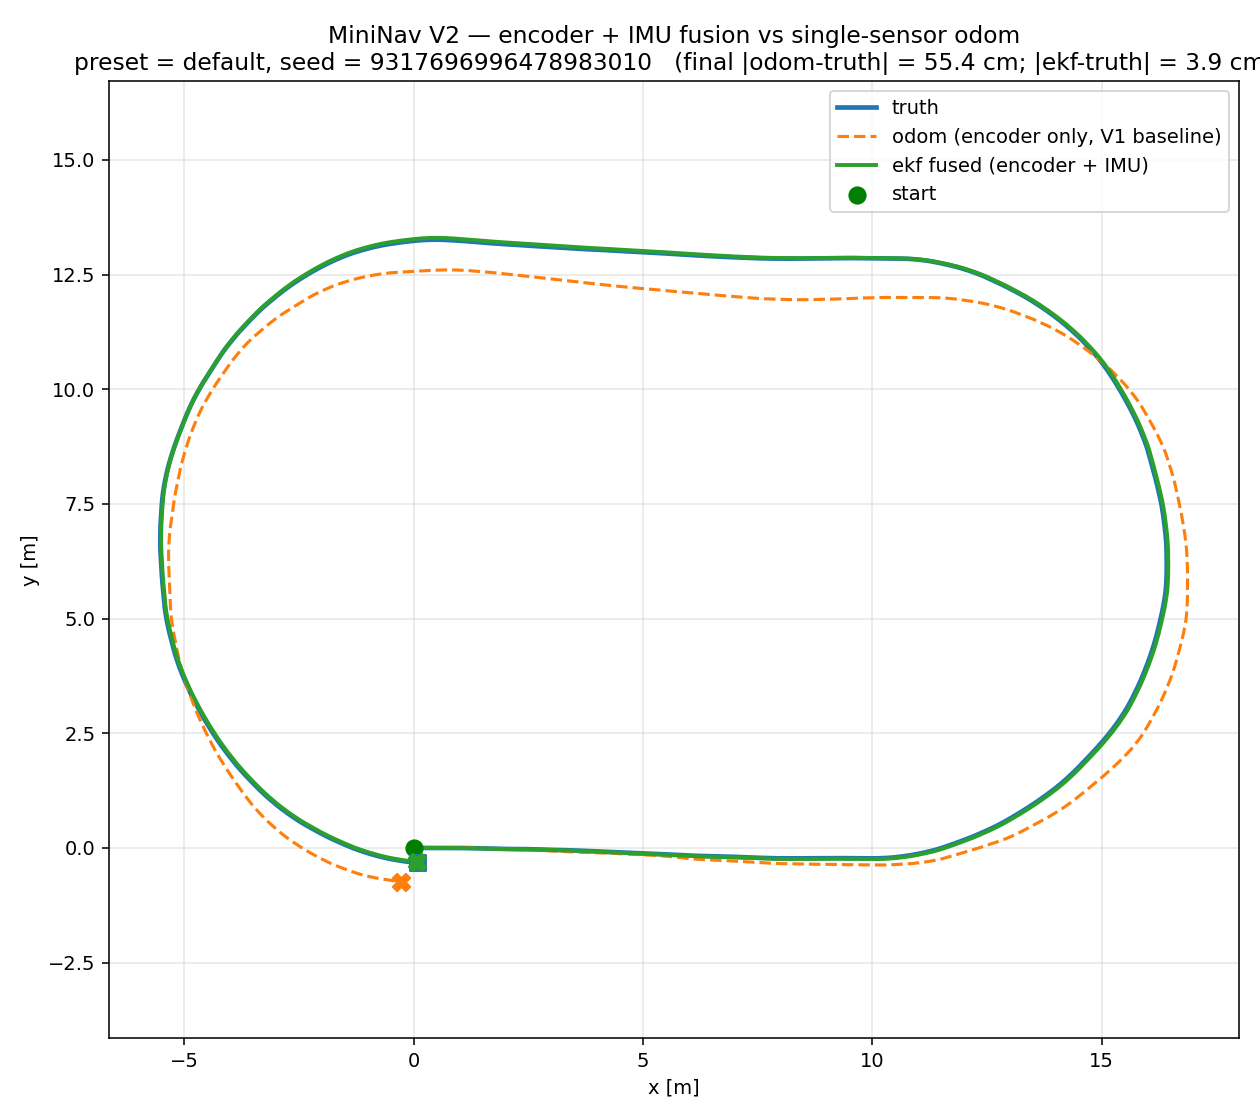
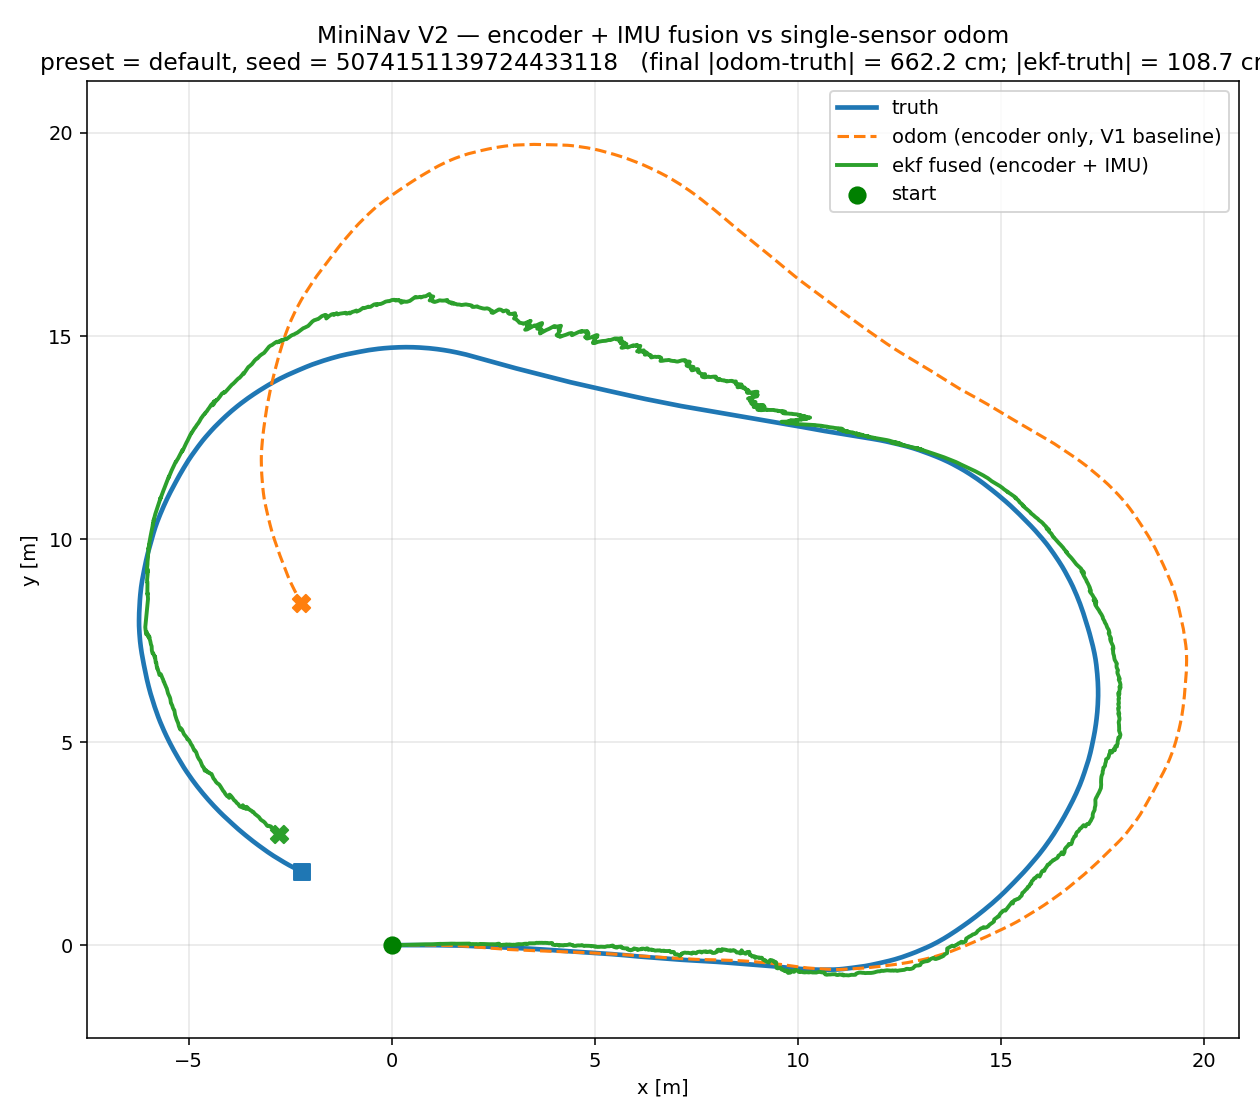
feat: add bias learning plot for online gyro bias estimation and covariance collapse

diff --git a/scripts/analyze_v2_ekf.py b/scripts/analyze_v2_ekf.py
@@ -22,6 +22,10 @@ mode = encoder+imu:
       fused 与 odom 的差距就是 IMU 的贡献。
   - results/v2_fusion_rmse_over_time.png  RMSE(truth, odom) 与 RMSE(truth, ekf)
       时间序列, 直观展示 fused 在转弯段开始后误差不再发散。
+  - results/v2_bias_learning.png:
+      上图 b_ω 估计 + ±2σ 带 + 真值参考线(由 preset 恢复), 几秒内收敛到真值;
+      下图 Σ_bb 从无信息先验(1e-2)对数坐标下塌缩 —— encoder+IMU 让 bias 可观测
+      的最直观证据(state augmentation 的"招牌图")。
 
 无论哪种模式都打印 stdout summary。
 
@@ -43,6 +47,24 @@ from matplotlib.patches import Ellipse
 def wrap_to_pi(angle: np.ndarray) -> np.ndarray:
     """规范化到 (-pi, pi], 与 C++ 端 atan2(sin, cos) trick 一致。"""
     return np.arctan2(np.sin(angle), np.cos(angle))
+
+
+# 各 preset 注入的常数gyro bias 真值, 镜像 sim_v2_main.cpp 的 V2Preset.imu_bias_init。
+# ⚠ 这是 Python 侧对 C++ 常量的手工镜像, 存在耦合: 改了 C++ preset 必须同步这里。
+#   更稳健的做法是让 C++ 把真值作为一列(如 imu_bias_true)写进 CSV, 分析脚本就
+#   完全不必知道 preset 表 —— 见文件末尾 main() 上方的说明。
+# 仅在 bias 为常数(imu_bias_rw == 0, 即所有出厂 preset)时, 真值可由 preset 名恢复;
+# 若用了漂移 bias, 此值只代表初值, recover 后果由调用方决定是否使用。
+_PRESET_TRUE_BIAS: dict[str, float] = {
+    "low-noise": 0.01,
+    "default": 0.02,
+    "high-noise": 0.03,
+}
+
+
+def recover_true_bias(metadata: dict[str, str]) -> float | None:
+    """从 CSV 元信息里的 preset 名恢复常数 gyro bias 真值; 未知 preset 返回 None。"""
+    return _PRESET_TRUE_BIAS.get(metadata.get("preset", ""))
 
 
 def parse_metadata(path: Path) -> dict[str, str]:
@@ -136,9 +158,9 @@ def plot_growth(df: pd.DataFrame, metadata: dict[str, str],
                 out_path: Path) -> None:
     fig, (ax_tr, ax_eig) = plt.subplots(2, 1, figsize=(10, 7), sharex=True)
 
-    # trace(Σ) = 全部 5 个对角项之和(总不确定性的标量摘要)
+    # trace(Σ) = 全部 6 个对角项之和(总不确定性的标量摘要; PR4 起含 bias 维 σ_bb)
     trace_sigma = (df["ekf_sigma_xx"] + df["ekf_sigma_yy"] + df["ekf_sigma_thth"]
-                   + df["ekf_sigma_vv"] + df["ekf_sigma_ww"])
+                   + df["ekf_sigma_vv"] + df["ekf_sigma_ww"] + df["ekf_sigma_bb"])
     ax_tr.plot(df["t"], trace_sigma, color="#d62728", linewidth=1.6)
     ax_tr.set_ylabel("trace(Σ)")
     ax_tr.set_title("Total covariance trace — monotone, unbounded")
@@ -247,7 +269,7 @@ def plot_covariance_split(df: pd.DataFrame, metadata: dict[str, str],
 
 def plot_fusion_trajectory(df: pd.DataFrame, metadata: dict[str, str],
                            out_path: Path) -> None:
-    """PR3: truth / odom / ekf-fused 三轨迹叠加。fused 应明显贴近 truth。"""
+    """truth / odom / ekf-fused 三轨迹叠加。fused 应明显贴近 truth。"""
     fig, ax = plt.subplots(figsize=(9, 8))
 
     ax.plot(df["truth_x"], df["truth_y"],
@@ -294,7 +316,7 @@ def plot_fusion_trajectory(df: pd.DataFrame, metadata: dict[str, str],
 
 def plot_fusion_rmse_over_time(df: pd.DataFrame, metadata: dict[str, str],
                                out_path: Path) -> None:
-    """PR3: 累积 RMSE(truth, odom) vs RMSE(truth, ekf-fused) 时间序列。"""
+    """累积 RMSE(truth, odom) vs RMSE(truth, ekf-fused) 时间序列。"""
     # 累积 RMSE 用滑窗会更平滑, 但用 prefix RMSE 更直观地展示"误差长期累积"。
     dx_odom = df["odom_x"] - df["truth_x"]
     dy_odom = df["odom_y"] - df["truth_y"]
@@ -342,6 +364,54 @@ def plot_fusion_rmse_over_time(df: pd.DataFrame, metadata: dict[str, str],
     plt.close(fig)
 
 
+def plot_bias_learning(df: pd.DataFrame, metadata: dict[str, str],
+                       out_path: Path) -> None:
+    """gyro bias 在线估计 —— 估计值收敛 + 协方差 Σ_bb 塌缩。
+
+    这是 state augmentation 最直观的证据: b_ω 从无信息先验出发, 在 encoder+IMU
+    双传感器把它变得【可观测】之后几秒内收敛到真值, Σ_bb 随之从 1e-2 量级塌缩。
+    镜像了 sim_v2_main 在 Rerun Time Series 里画的 /plots/bias_omega/{ekf,truth}。
+    """
+    t = df["t"]
+    bias_est = df["ekf_bias_omega"]
+    sigma_bb = df["ekf_sigma_bb"]
+    std_bb = np.sqrt(sigma_bb.clip(lower=0.0))  # ±σ 带宽; clip 防极小负浮点
+
+    fig, (ax_est, ax_cov) = plt.subplots(2, 1, figsize=(10, 7), sharex=True)
+
+    # --- 上: 估计值 + ±2σ 带 + 真值参考线 ---
+    ax_est.plot(t, bias_est, color="#2ca02c", linewidth=1.8, label="ekf estimate")
+    ax_est.fill_between(t, bias_est - 2.0 * std_bb, bias_est + 2.0 * std_bb,
+                        color="#2ca02c", alpha=0.18, label="±2σ band")
+    true_bias = recover_true_bias(metadata)
+    if true_bias is not None:
+        ax_est.axhline(true_bias, color="#d62728", linewidth=1.6, linestyle="--",
+                       label=f"true bias = {true_bias:.3f} rad/s")
+    ax_est.axhline(0.0, color="gray", linewidth=0.8, alpha=0.5)  # 先验起点 b₀ = 0
+    ax_est.set_ylabel("gyro bias  b_ω  [rad/s]")
+    ax_est.grid(True, alpha=0.3)
+    ax_est.legend(loc="best")
+    ax_est.set_title("Gyro bias estimate — converges once encoder + IMU make it observable")
+
+    # --- 下: Σ_bb 塌缩(对数坐标) ---
+    ax_cov.plot(t, sigma_bb, color="#9467bd", linewidth=1.8)
+    ax_cov.set_yscale("log")
+    ax_cov.set_ylabel("bias covariance\nΣ_bb  [(rad/s)²]")
+    ax_cov.set_xlabel("time [s]")
+    ax_cov.grid(True, alpha=0.3, which="both")
+    ax_cov.set_title("Bias covariance — collapses from the uninformative prior (1e-2)")
+
+    preset = metadata.get("preset", "?")
+    seed = metadata.get("seed", "?")
+    fig.suptitle(
+        f"MiniNav V2 — gyro bias state augmentation (PR4)\n"
+        f"preset = {preset}, seed = {seed}")
+
+    fig.tight_layout()
+    fig.savefig(out_path, dpi=140)
+    plt.close(fig)
+
+
 def print_summary(df: pd.DataFrame, metadata: dict[str, str]) -> None:
     mode = metadata.get("mode", "predict-only")
     print("=" * 64)
@@ -352,7 +422,7 @@ def print_summary(df: pd.DataFrame, metadata: dict[str, str]) -> None:
     print("-" * 64)
 
     if mode == "encoder+imu":
-        # PR3: 报告 odom / ekf-fused 各自对 truth 的全程 RMSE。
+        #  报告 odom / ekf-fused 各自对 truth 的全程 RMSE。
         dx_o = df["odom_x"] - df["truth_x"]; dy_o = df["odom_y"] - df["truth_y"]
         dy_o_yaw = wrap_to_pi((df["odom_yaw"] - df["truth_yaw"]).to_numpy())
         dx_e = df["ekf_x"] - df["truth_x"]; dy_e = df["ekf_y"] - df["truth_y"]
@@ -377,6 +447,19 @@ def print_summary(df: pd.DataFrame, metadata: dict[str, str]) -> None:
         print(f"  final |odom - truth|     = {final_odom_err:.4f} m")
         print(f"  final |ekf  - truth|     = {final_ekf_err:.4f} m  "
               f"(IMU 把 yaw 锚定, 间接把位置漂移压下去)")
+
+        # gyro bias 在线估计结果。
+        bias_final = float(df["ekf_bias_omega"].iloc[-1])
+        sbb0 = float(df["ekf_sigma_bb"].iloc[0])
+        sbb_f = float(df["ekf_sigma_bb"].iloc[-1])
+        print(f"  gyro bias estimate       final = {bias_final:.5f} rad/s")
+        true_bias = recover_true_bias(metadata)
+        if true_bias is not None:
+            print(f"  gyro bias true (preset)        = {true_bias:.5f} rad/s  "
+                  f"(|err| = {abs(bias_final - true_bias):.5f} rad/s)")
+        shrink = f"{sbb0 / sbb_f:.0f}x 收缩" if sbb_f > 0 else "收缩"
+        print(f"  bias covariance Σ_bb     = {sbb0:.4e} -> {sbb_f:.4e} (rad/s)²  "
+              f"({shrink}; fusion 使 bias 可观测)")
     elif mode == "encoder-update":
         odom_err = np.hypot(df["odom_x"].iloc[-1] - df["truth_x"].iloc[-1],
                             df["odom_y"].iloc[-1] - df["truth_y"].iloc[-1])
@@ -396,11 +479,16 @@ def print_summary(df: pd.DataFrame, metadata: dict[str, str]) -> None:
         print(f"  position-block trace(Σ)    = {pos0:.4e} -> {pos_f:.4e} m²  "
               f"({pos_f / pos0:.0f}x 增长, 无界)")
         print(f"  velocity-block trace(Σ)    = {vel_mid:.4e}  (稳态, 有界)")
+
+        sbb0 = df["ekf_sigma_bb"].iloc[0]
+        sbb_f = df["ekf_sigma_bb"].iloc[-1]
+        print(f"  bias-block Σ_bb            = {sbb0:.4e} -> {sbb_f:.4e}  "
+              f"(几乎不收缩: 无 IMU 时 bias 不可观测)")
     else:
         trace0 = df[["ekf_sigma_xx", "ekf_sigma_yy", "ekf_sigma_thth",
-                     "ekf_sigma_vv", "ekf_sigma_ww"]].iloc[0].sum()
+                     "ekf_sigma_vv", "ekf_sigma_ww", "ekf_sigma_bb"]].iloc[0].sum()
         trace_f = df[["ekf_sigma_xx", "ekf_sigma_yy", "ekf_sigma_thth",
-                      "ekf_sigma_vv", "ekf_sigma_ww"]].iloc[-1].sum()
+                      "ekf_sigma_vv", "ekf_sigma_ww", "ekf_sigma_bb"]].iloc[-1].sum()
         std_x0 = np.sqrt(df["ekf_sigma_xx"].iloc[0])
         std_xf = np.sqrt(df["ekf_sigma_xx"].iloc[-1])
         mean_drift = np.hypot(df["ekf_x"].iloc[-1] - df["ekf_x"].iloc[0],
@@ -429,15 +517,17 @@ def main() -> None:
     mode = metadata.get("mode", "predict-only")
 
     if mode == "encoder+imu":
-        # PR3: fusion 四轨迹叠加 + 累积 RMSE 时间序列。
+        # fusion 四轨迹叠加 + 累积 RMSE 时间序列。
         plot_fusion_trajectory(df, metadata, args.output / "v2_fusion_trajectory.png")
         plot_fusion_rmse_over_time(df, metadata, args.output / "v2_fusion_rmse_over_time.png")
+        # gyro bias 在线估计(收敛 + Σ_bb 塌缩)。
+        plot_bias_learning(df, metadata, args.output / "v2_bias_learning.png")
     elif mode == "encoder-update":
-        # PR2: 三轨迹叠加 + 协方差分离(observability)。
+        # 三轨迹叠加 + 协方差分离(observability)。
         plot_trajectory_overlay(df, metadata, args.output / "v2_encoder_trajectory.png")
         plot_covariance_split(df, metadata, args.output / "v2_encoder_covariance_split.png")
     else:
-        # PR1: 协方差增长曲线(+ 可选椭圆)。
+        # 协方差增长曲线(+ 可选椭圆)。
         plot_growth(df, metadata, args.output / "v2_predict_only_growth.png")
         if args.with_ellipses:
             plot_ellipses(df, metadata, args.output / "v2_predict_only_ellipses.png")